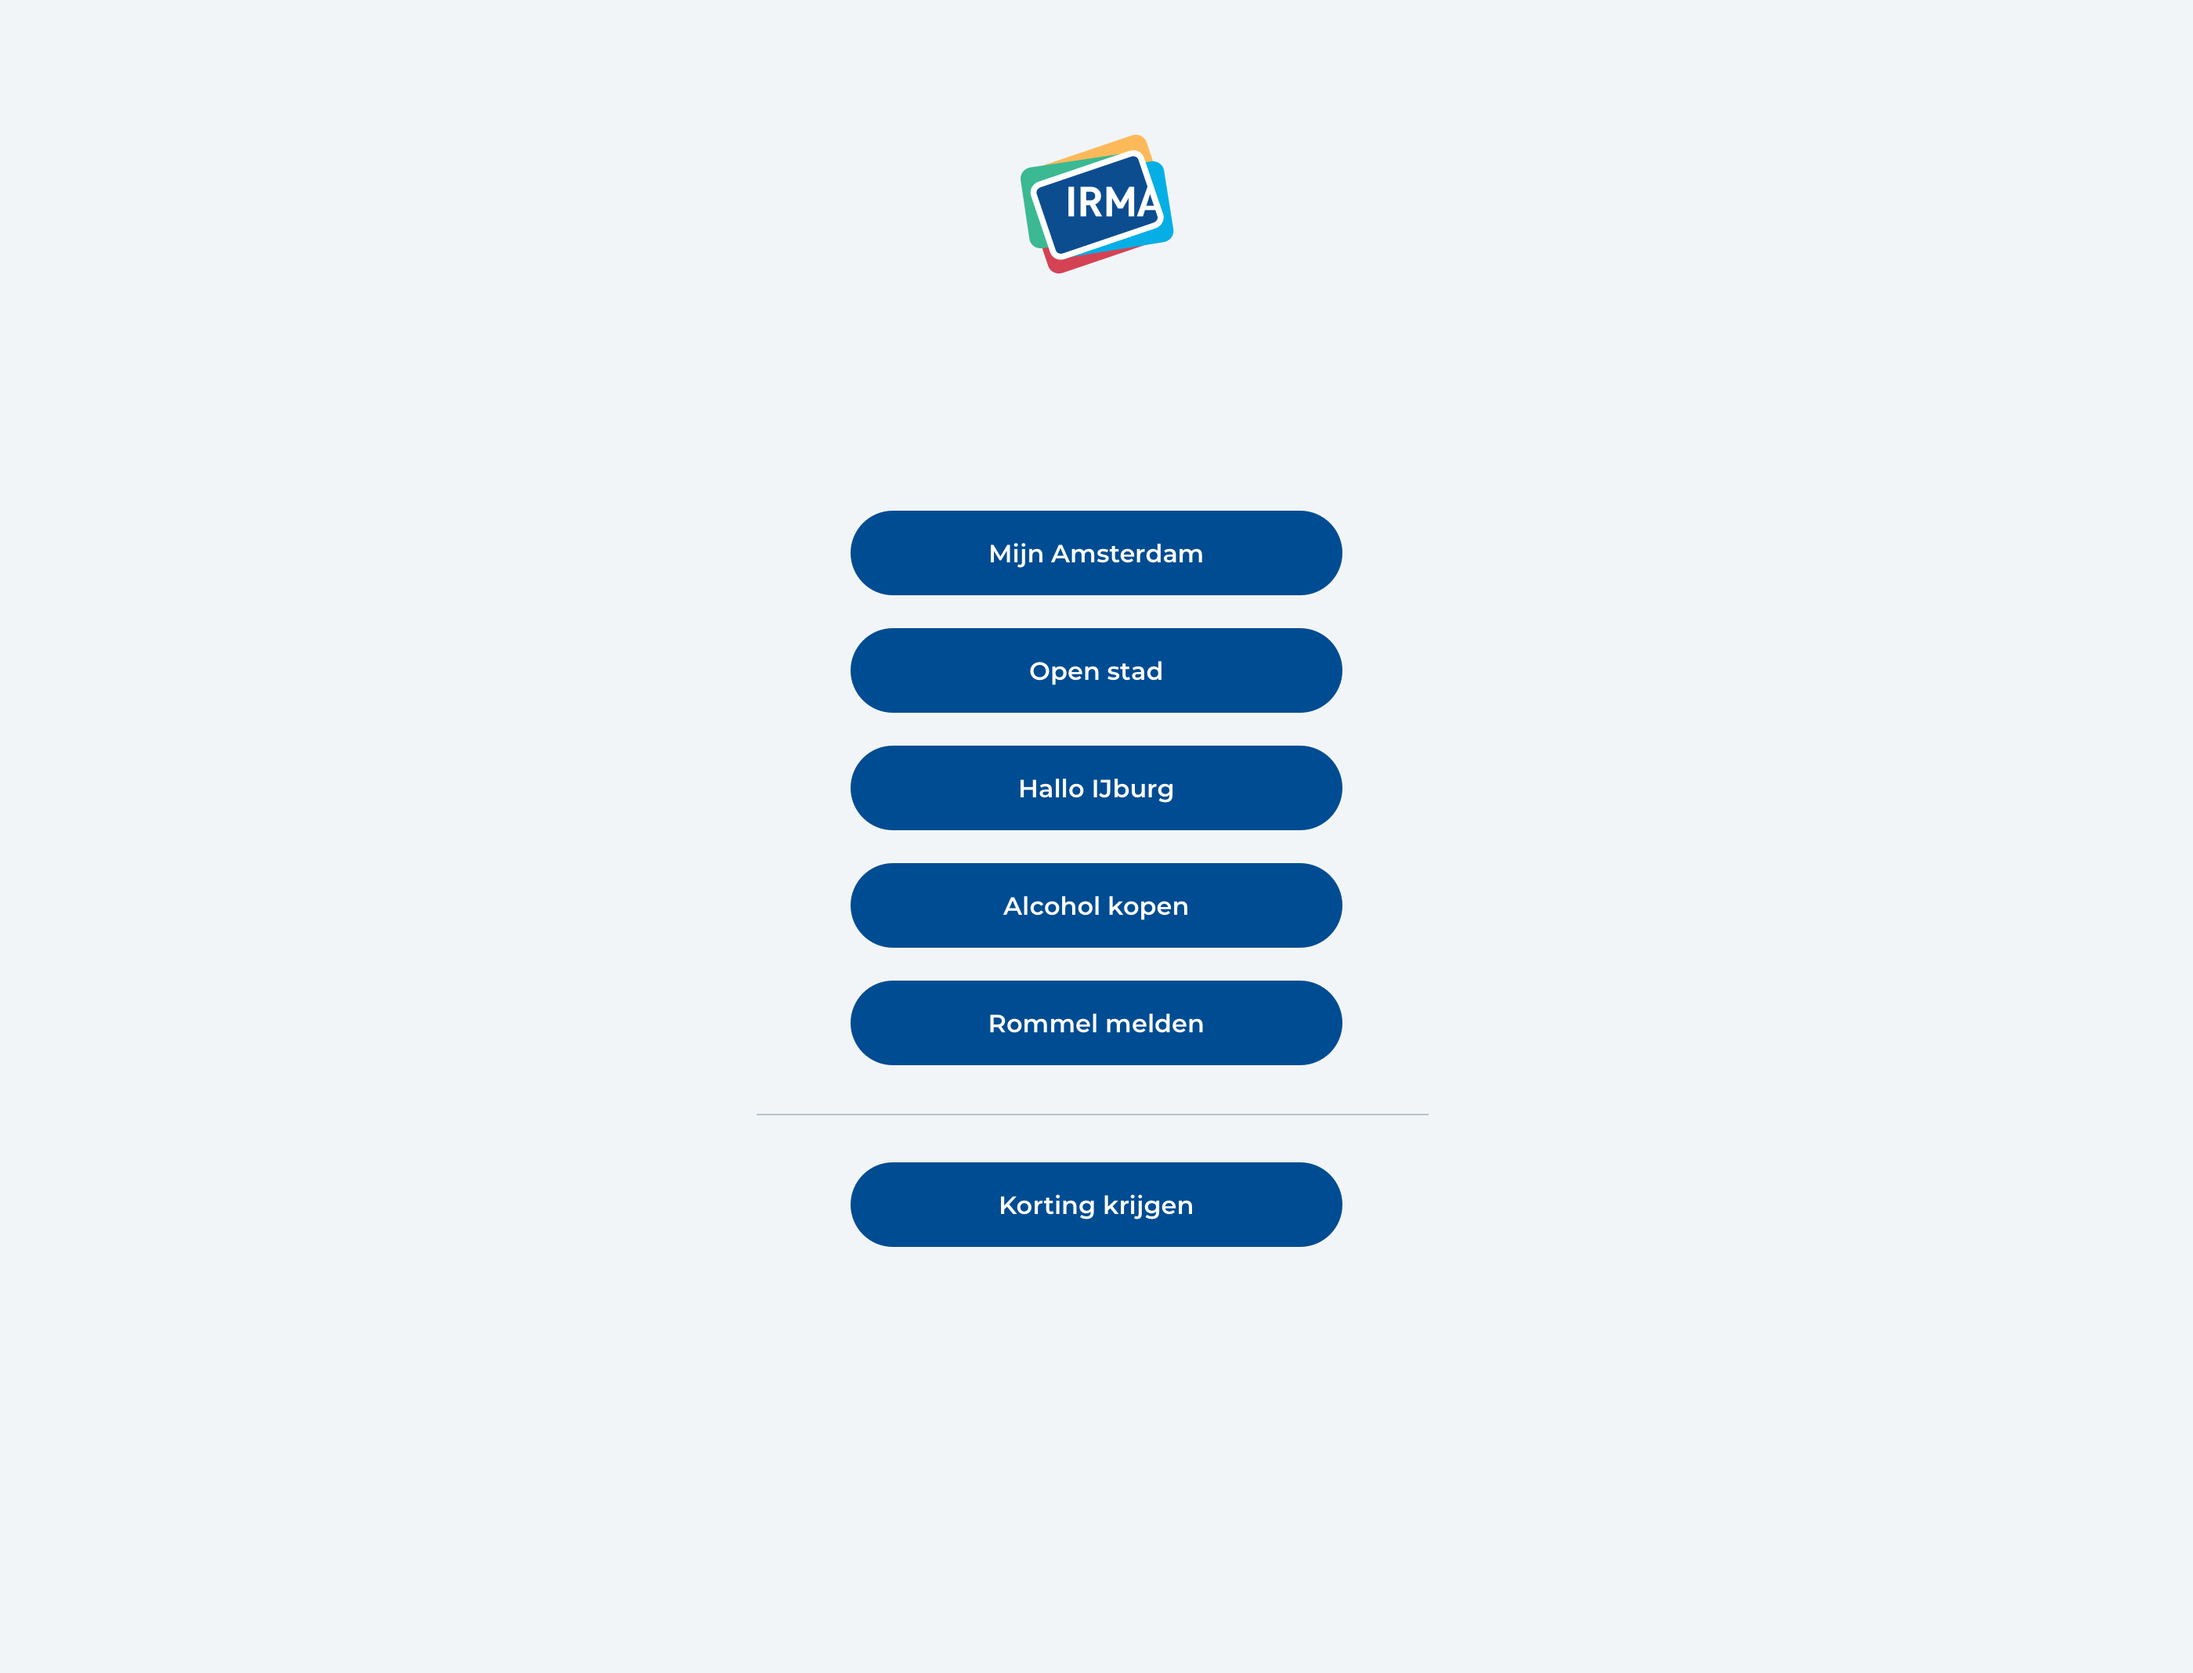
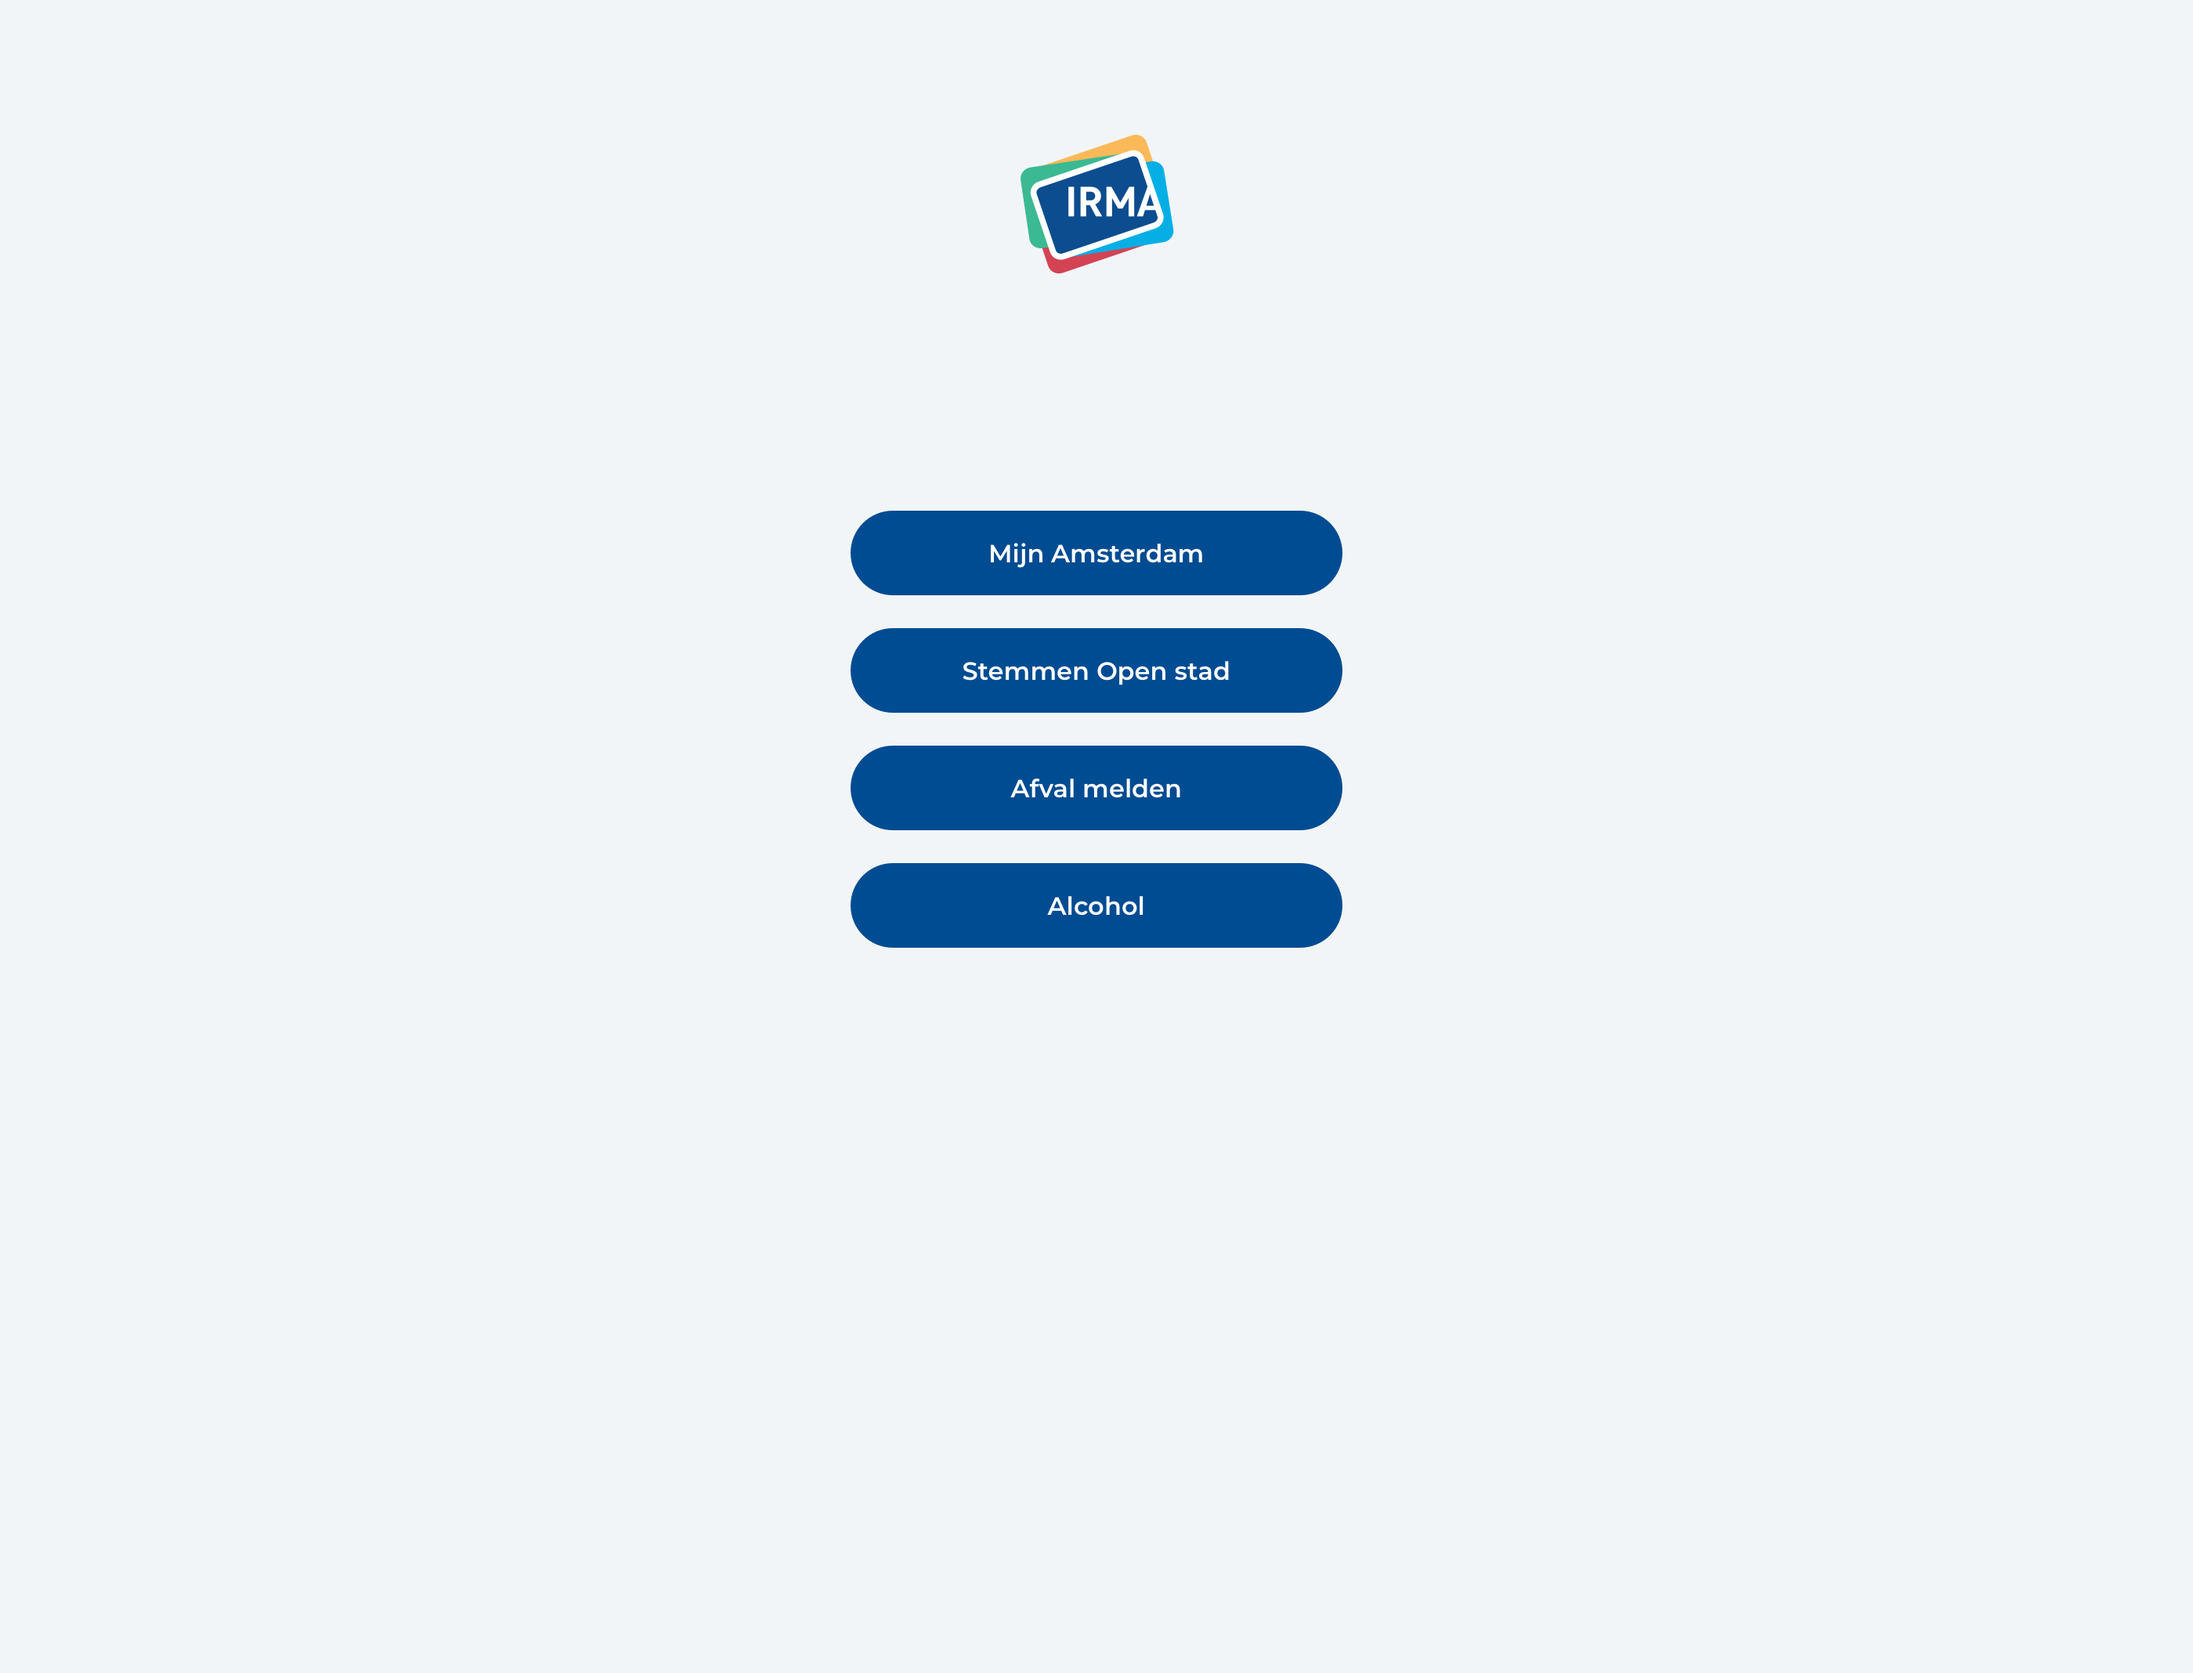
implements the redesign of the home page

diff --git a/di-demo/client/src/App.tsx b/di-demo/client/src/App.tsx
@@ -1,7 +1,11 @@
 import React, { useEffect, useContext } from "react";
-import styled from '@datapunt/asc-core';
+import styled from "@datapunt/asc-core";
+import { useHistory } from "react-router-dom";
 import "./App.css";
 import { PageWrapper } from "./AppStyle";
+import Button, {
+  ButtonStyleProps
+} from "./shared/components/Button/ButtonStyle";
 
 const MainContainerStyle = styled.div`
   background-color: #f2f5f8;
@@ -29,8 +33,34 @@ const Spacer = styled.div<{ height: number }>`
   height: ${({ height }) => height}px;
 `;
 
+const mijnAmsterdamButtonPosition: ButtonStyleProps = {
+  width: 314,
+  height: 53,
+  top: 326,
+  left: 543
+};
+const openStadButtonPosition: ButtonStyleProps = {
+  width: 314,
+  height: 53,
+  top: 401,
+  left: 543
+};
+const afvalMeldenButtonPosition: ButtonStyleProps = {
+  width: 314,
+  height: 53,
+  top: 476,
+  left: 543
+};
+const alchoolButtonPosition: ButtonStyleProps = {
+  width: 314,
+  height: 53,
+  top: 551,
+  left: 543
+};
+
 const themeName = "amsterdam";
 const App: React.FC = () => {
+  const history = useHistory();
 
   return (
     <MainContainerStyle>
@@ -42,27 +72,22 @@ const App: React.FC = () => {
           width="1400"
           decoding="async"
         />
-        <LinkListStyle>
-          <LinkStyle href={`mijnamsterdam/${themeName}`}>
-            {/* Mijn Amsterdam */}
-          </LinkStyle>
-          <LinkStyle href={`openstad/${themeName}`}>
-            {/* Open stad */}
-          </LinkStyle>
-          <LinkStyle href={`halloijburg/${themeName}`}>
-            {/* Hallo IJburg */}
-          </LinkStyle>
-          <LinkStyle href={`alchoolkopen/${themeName}`}>
-            {/* Alchool kopen */}
-          </LinkStyle>
-          <LinkStyle href={`rommelmelden/${themeName}`}>
-            {/* Rommel melden */}
-          </LinkStyle>
-          <Spacer height={41} />
-          <LinkStyle href={`kortingkrijgen/${themeName}`}>
-            {/* Korting krijgen */}
-          </LinkStyle>
-        </LinkListStyle>
+        <Button
+          onClick={() => history.push(`mijnamsterdam/${themeName}`)}
+          {...mijnAmsterdamButtonPosition}
+        ></Button>
+        <Button
+          onClick={() => history.push(`openstad/${themeName}`)}
+          {...openStadButtonPosition}
+        ></Button>
+        <Button
+          onClick={() => history.push(`afvalmelden/${themeName}`)}
+          {...afvalMeldenButtonPosition}
+        ></Button>
+        <Button
+          onClick={() => history.push(`alchoolkopen/${themeName}`)}
+          {...alchoolButtonPosition}
+        ></Button>
       </PageWrapper>
     </MainContainerStyle>
   );

diff --git a/di-demo/client/src/AppRoutes.ts b/di-demo/client/src/AppRoutes.ts
@@ -1,10 +1,8 @@
 import App from "./App";
 import MijnAmsterdamPage from "./pages/MijnAmsterdamPage/MijnAmsterdamPage";
 import OpenStadPage from "./pages/OpenStadPage/OpenStadPage";
-import HalloIJburgPage from "./pages/HalloIJburgPage";
 import AlchoolKopenPage from "./pages/AlchoolKopenPage";
 import RommelMeldenPage from "./pages/RommelMeldenPage";
-import KortingKrijgenPage from "./pages/KortingKrijgenPage";
 
 const AppRoutes: any = {
     HOME: { path: "/", component: App },
@@ -13,13 +11,8 @@ const AppRoutes: any = {
       component: MijnAmsterdamPage
     },
     OPEN_STAD: { path: "/openstad/:theme", component: OpenStadPage },
-    HALLO_IJBURG: { path: "/halloijburg/:theme", component: HalloIJburgPage },
+    AFVAL_MELDEN: { path: "/afvalmelden/:theme", component: RommelMeldenPage },
     ALCHOOL_KOPEN: { path: "/alchoolkopen/:theme", component: AlchoolKopenPage },
-    ROMMEL_MELDEN: { path: "/rommelmelden/:theme", component: RommelMeldenPage },
-    KORTING_KRIJGEN: {
-      path: "/kortingkrijgen/:theme",
-      component: KortingKrijgenPage
-    }
   };
   
   export default AppRoutes;
